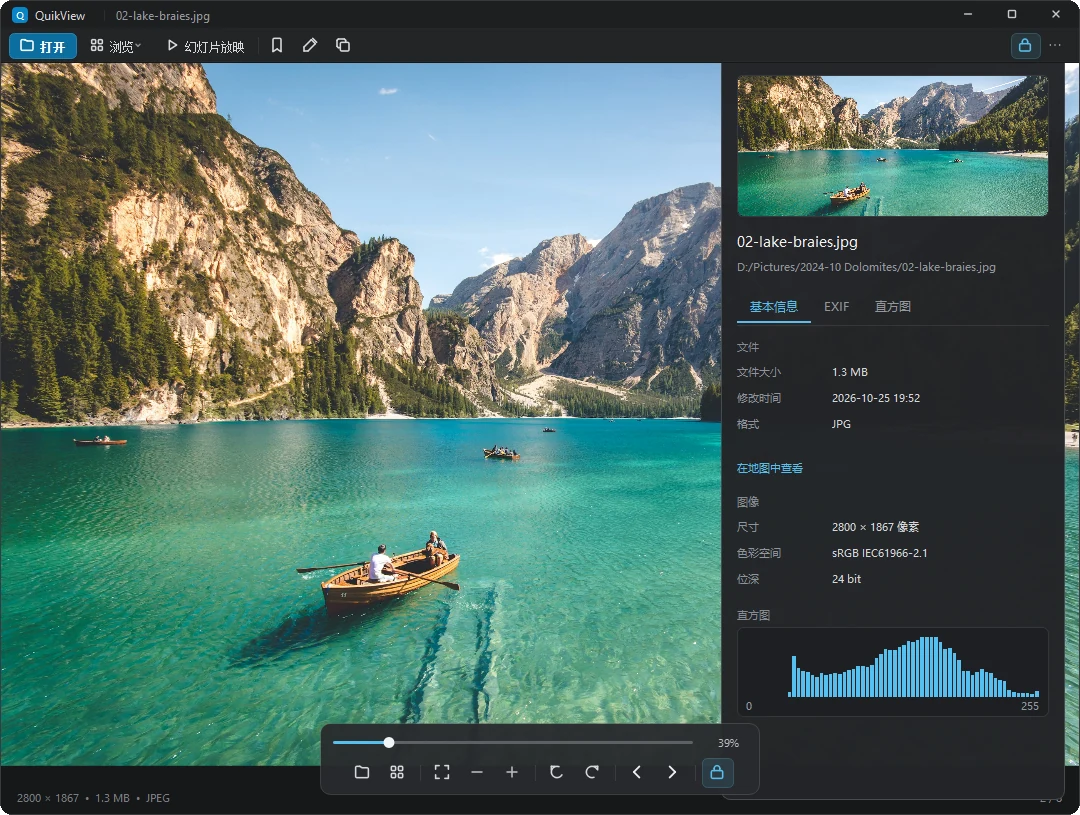
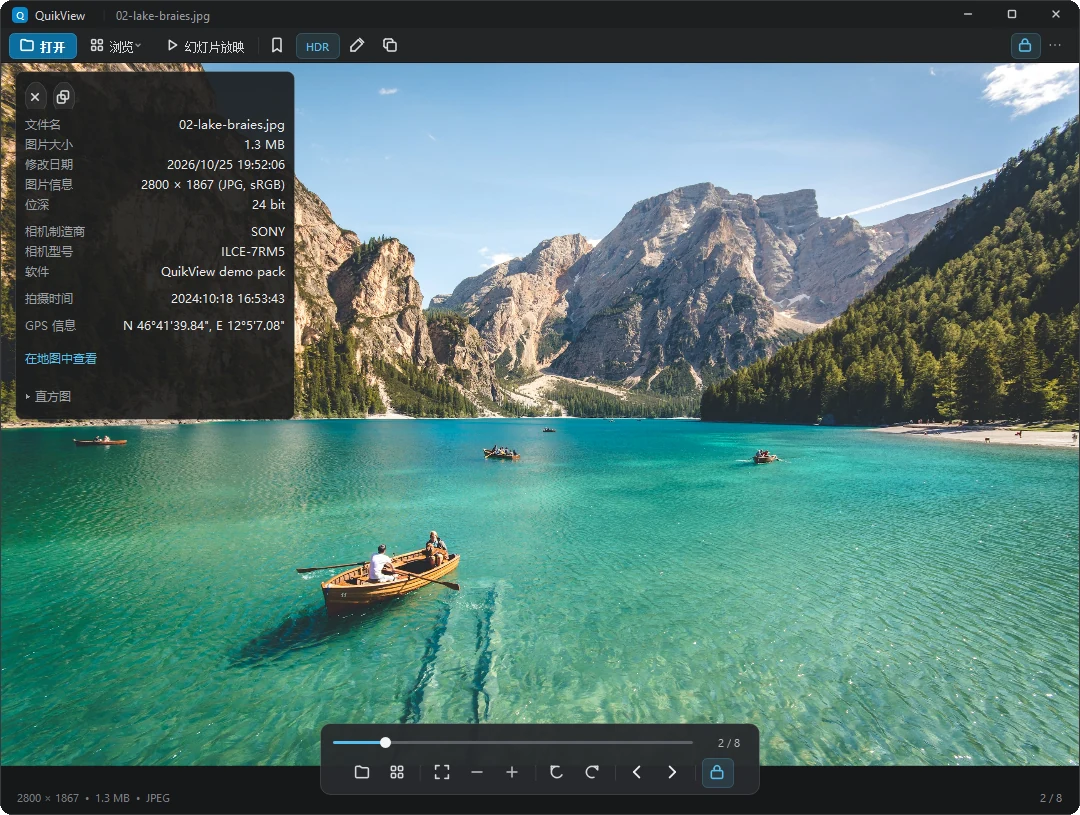
docs(screenshots): 按新界面重截 10 张功能图
- 顶部文字栏、底部胶囊（翻页滑块 + 页码）、左上信息卡片、启动页全部按当前实现重渲染
- 03-info：改为左上浮动信息卡片语义（字段、GPS 地图链接、直方图折叠）
- 09-settings：分类按实际十项更正（补杂项，右键菜单改称上下文菜单）
- 01/02/04/05/06/07/10 同步刷新；合计 1.6MB WebP

diff --git a/docs/SCREENSHOTS.md b/docs/SCREENSHOTS.md
@@ -2,7 +2,7 @@
 
 [← 返回 README](../README.md)
 
-以下截图全部由 **QuikView v0.3.0 自身渲染**（`--screenshot` 走 Qt 内部绘制，不是系统抓屏），
+以下截图全部由 **QuikView 自身渲染**（`--screenshot` 走 Qt 内部绘制，不是系统抓屏），
 所以不受显示器 DPI 缩放影响，和你在屏幕上看到的一致。
 
 Every screenshot below is rendered by QuikView itself (`--screenshot`, Qt's own painting),
@@ -34,11 +34,14 @@ hundreds of files will not block the UI.
 
 ## 3. 图片信息 · Image info
 
-`Tab` 呼出右侧信息面板：文件基本信息、EXIF（相机 / 镜头 / 光圈 / 快门 / ISO / GPS）、直方图，
-三个页签一屏看完。EXIF 是自研解析器，不依赖任何 GPL 库。
+`Tab` 呼出左上角信息卡片：文件名、体积、修改时间、位深、相机制造商 / 型号 / 软件、拍摄时间、
+GPS（可一键在地图上查看），直方图折叠在底部。卡片浮在画面上，不挤压图片。EXIF 是自研解析器，
+不依赖任何 GPL 库。
 
-`Tab` opens the right-hand info panel: file facts, EXIF (camera / lens / aperture / shutter / ISO /
-GPS) and a histogram, in three tabs. The EXIF parser is our own — no GPL dependency.
+`Tab` brings up the info card at the top-left: file name, size, modified time, bit depth, camera
+make / model / software, capture time, GPS (with a "show on map" link), and a collapsible
+histogram. The card floats over the image instead of squeezing it. The EXIF parser is our own —
+no GPL dependency.
 
 ![图片信息](screenshots/03-info.webp)
 
@@ -100,10 +103,10 @@ Originals are kept by default.
 
 ## 9. 设置 · Settings
 
-左侧分类，右侧就地生效的选项：窗口行为、浏览、图像处理、格式关联、键盘、鼠标、书签、右键菜单、语言。
+左侧十个分类，右侧就地生效的选项：一般、浏览、图像处理、格式关联、键盘、鼠标、书签、上下文菜单、杂项、语言。
 
-Categories on the left, options on the right: window behaviour, browsing, image processing, file
-associations, keyboard, mouse, bookmarks, context menu, language.
+Ten categories on the left, options on the right: general, browsing, image processing, file
+associations, keyboard, mouse, bookmarks, context menu, misc, language.
 
 ![设置](screenshots/09-settings.webp)
 
